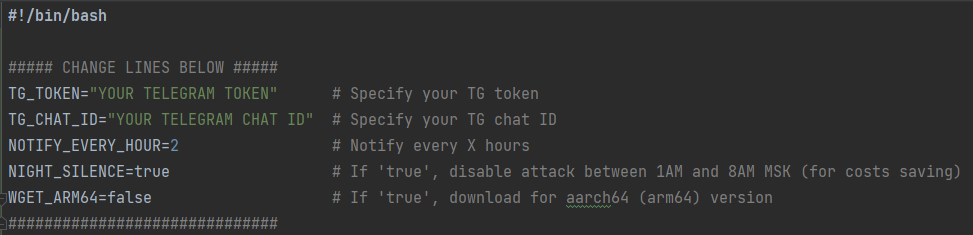
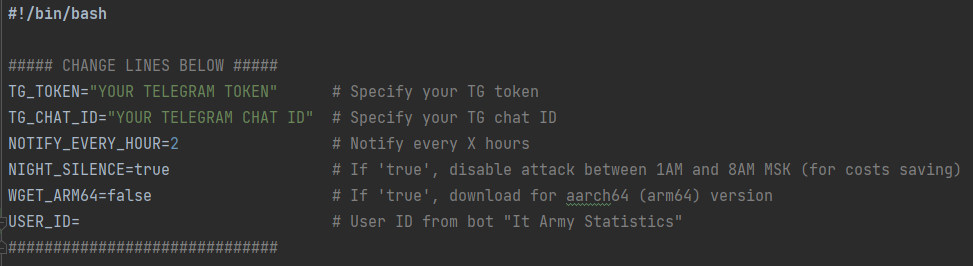
User ID from bot "It Army Statistics"

diff --git a/README.md b/README.md
@@ -39,6 +39,7 @@
 * **NOTIFY_EVERY_HOUR** - як часто отримувати нотифікації (кожні Х годин)
 * **NIGHT_SILENCE** - виключати атаки між 01:00 - 08:00 МСК (щоб зберегти трохи грошей на трафіку)
 * **WGET_ARM64** - завантаження для aarch64 (arm64) версії
+* **USER_ID** - ід з [бота](https://itarmy.com.ua/statistics/) для отримання персональної статистики DDOS атаки на русню
 
 Запустіть інсталяційний файл
 
